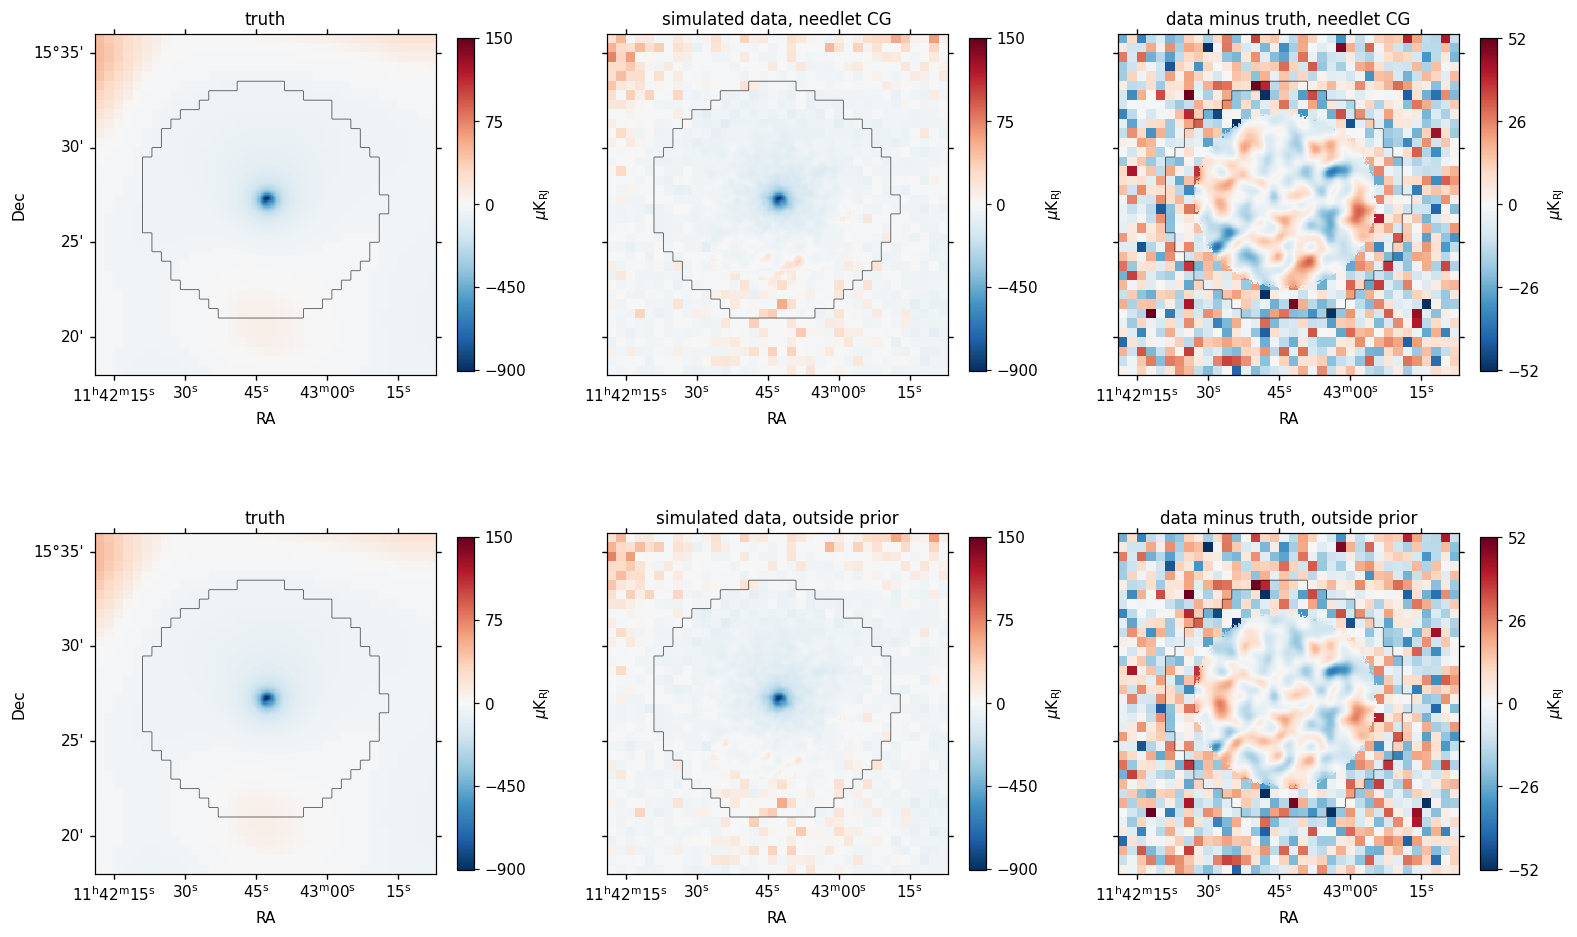
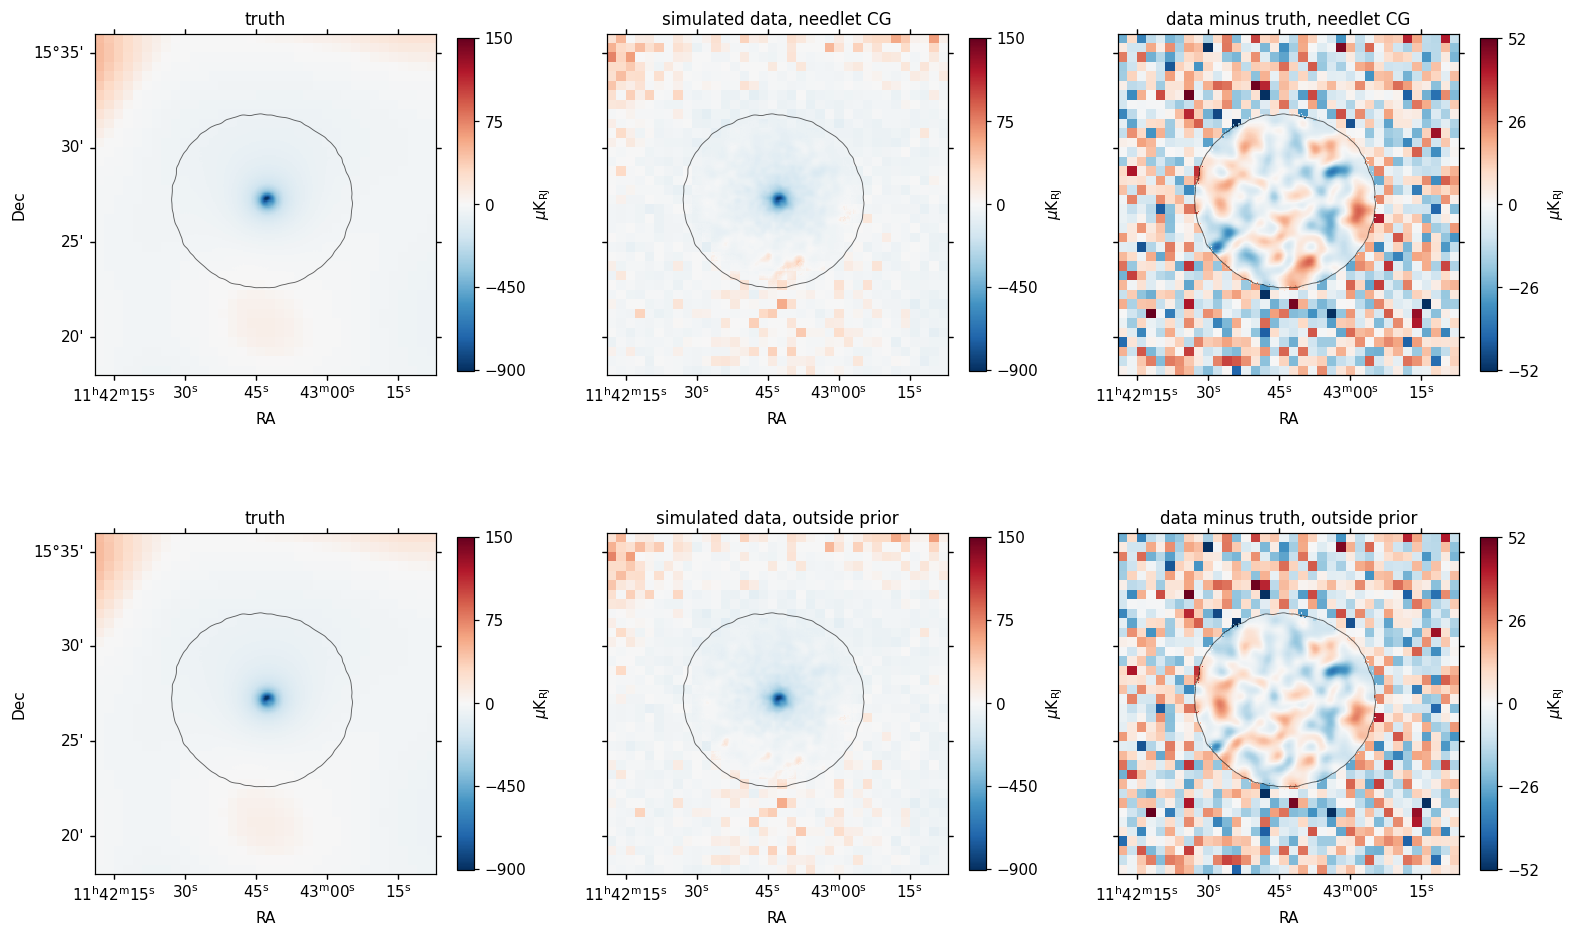
feat: multiscale outline marks where the joint map is shown (hits >= --show-hits), not the split ACT pixels

diff --git a/reports/convergence_summary.html b/reports/convergence_summary.html
@@ -362,7 +362,7 @@ a:focus-visible { outline: 2px solid var(--accent); outline-offset: 2px; }
 </div>
 <figure>
 <img src="figs/summary/best_sim_multiscale.png" alt="Simulation with no mask: truth, simulated data and residual as two-resolution maps">
-<figcaption><strong>Figure 8. Best configuration on the simulation: no mask, no prior, 600 iterations.</strong> 18′ field. 30″ ACT pixels, split into 8 × 8 sub-pixels (3.75″) where M2 has data (hits ≥ 20). The thin stair-step line outlines the split pixels. The M2 part is smoothed to 10″ above 3000 hits and up to 30″ below, shown above 120 hits and feathered into ACT over 300. The positive end of the colour scale is fixed at +150 µK, about the real map's CMB range, because this simulated patch has little CMB. Truth: the simulated sky, and in the ACT pixels the sky as a noiseless ACT sees it (ACT beam, pixel average). Data: the joint map, and in the ACT pixels a simulated ACT map with noise from the real ACT inverse variance. The residual's M2 part is smoothed to 30″. Its rms is 9.9 µK in the M2 part and 17.5 µK in the ACT pixels, which is ACT noise.</figcaption>
+<figcaption><strong>Figure 8. Best configuration on the simulation: no mask, no prior, 600 iterations.</strong> 18′ field. 30″ ACT pixels, split into 8 × 8 sub-pixels (3.75″) where M2 has data (hits ≥ 20). The thin line marks where the joint map starts to show (hits ≥ 120); outside it, the ACT values are shown. The M2 part is smoothed to 10″ above 3000 hits and up to 30″ below, shown above 120 hits and feathered into ACT over 300. The positive end of the colour scale is fixed at +150 µK, about the real map's CMB range, because this simulated patch has little CMB. Truth: the simulated sky, and in the ACT pixels the sky as a noiseless ACT sees it (ACT beam, pixel average). Data: the joint map, and in the ACT pixels a simulated ACT map with noise from the real ACT inverse variance. The residual's M2 part is smoothed to 30″. Its rms is 9.9 µK in the M2 part and 17.5 µK in the ACT pixels, which is ACT noise.</figcaption>
 </figure>
 <figure>
 <img src="figs/summary/sim_multiscale.png" alt="Simulation: masked needlet solve and masked solve with the outside prior, truth, data and residual">
@@ -370,7 +370,7 @@ a:focus-visible { outline: 2px solid var(--accent); outline-offset: 2px; }
 </figure>
 <figure>
 <img src="figs/summary/multiscale.png" alt="Real data: MOOJ1142 M2 plus ACT two-resolution map from the masked solve">
-<figcaption><strong>Figure 10. Real data, 40 TODs, masked solve (600 iterations, K<sub>RJ</sub>).</strong> Same display as Figure 8, with the colour scale set by the map itself. The ACT map is the coadd of the 8 DR6 f090 splits, and the thin stair-step line outlines the ACT pixels split into M2 sub-pixels. The joint map's offset from ACT inside the M2 region (−10 µK) is subtracted. This is a placeholder from the earlier masked run. The same map with no mask is queued, first for 40 TODs and then for all TODs, and will replace it here.</figcaption>
+<figcaption><strong>Figure 10. Real data, 40 TODs, masked solve (600 iterations, K<sub>RJ</sub>).</strong> Same display as Figure 8, with the colour scale set by the map itself. The ACT map is the coadd of the 8 DR6 f090 splits, and the thin line marks where the joint map starts to show (hits ≥ 120). The joint map's offset from ACT inside the M2 region (−10 µK) is subtracted. This is a placeholder from the earlier masked run. The same map with no mask is queued, first for 40 TODs and then for all TODs, and will replace it here.</figcaption>
 </figure>
 </section>
 </div>

diff --git a/reports/needlet_mapmaking.html b/reports/needlet_mapmaking.html
@@ -291,11 +291,11 @@ out 9 [ G₉₀   G₉₁   G₉₂  …   G₉₉ ]</div>
 </ul>
 <figure>
   <img src="figs/summary/best_sim_multiscale.png" alt="Simulation, best configuration: truth, simulated data and residual as two-resolution maps">
-  <figcaption><strong>Best configuration on the simulation: no mask, no prior, 600 iterations.</strong> Display maps for viewing only, 18′ field: 30″ ACT pixels, split into 8 × 8 sub-pixels (3.75″) where M2 has data (hits ≥ 20). The thin stair-step line outlines the split pixels. A sub-pixel shows the joint map where it has at least 120 hits, feathered into ACT over the next 300 hits. Below 120 hits it shows its ACT pixel's value, since at those fine scales ACT carries no information and the map there would be pure low-hit M2 noise. The joint map is smoothed to 10″ where it has at least 3000 hits, and more where it has fewer: FWHM 10″ × √(3000 / hits), up to 30″. That keeps the displayed M2 noise about constant. The residual's M2 part is smoothed to 30″: 10 µK rms there, against 18 µK of ACT noise in the ACT pixels.</figcaption>
+  <figcaption><strong>Best configuration on the simulation: no mask, no prior, 600 iterations.</strong> Display maps for viewing only, 18′ field: 30″ ACT pixels, split into 8 × 8 sub-pixels (3.75″) where M2 has data (hits ≥ 20). The thin line marks where the joint map starts to show (hits ≥ 120); outside it, the ACT values are shown. A sub-pixel shows the joint map where it has at least 120 hits, feathered into ACT over the next 300 hits. Below 120 hits it shows its ACT pixel's value, since at those fine scales ACT carries no information and the map there would be pure low-hit M2 noise. The joint map is smoothed to 10″ where it has at least 3000 hits, and more where it has fewer: FWHM 10″ × √(3000 / hits), up to 30″. That keeps the displayed M2 noise about constant. The residual's M2 part is smoothed to 30″: 10 µK rms there, against 18 µK of ACT noise in the ACT pixels.</figcaption>
 </figure>
 <figure>
   <img src="figs/summary/multiscale.png" alt="Real data: MOOJ1142 M2 plus ACT two-resolution map, masked solve">
-  <figcaption><strong>Real data, 40 TODs, K<sub>RJ</sub> units, 600 iterations, still with the mask.</strong> 18′ field, same display as above. The thin stair-step line outlines the ACT pixels split into M2 sub-pixels. The ACT map is the coadd of the 8 DR6 f090 splits, and the joint map's offset from ACT in the M2 region (−10 µK) is subtracted. Runs without the mask are queued, for 40 TODs and then for all TODs, and will replace this map.</figcaption>
+  <figcaption><strong>Real data, 40 TODs, K<sub>RJ</sub> units, 600 iterations, still with the mask.</strong> 18′ field, same display as above. The thin line marks where the joint map starts to show (hits ≥ 120). The ACT map is the coadd of the 8 DR6 f090 splits, and the joint map's offset from ACT in the M2 region (−10 µK) is subtracted. Runs without the mask are queued, for 40 TODs and then for all TODs, and will replace this map.</figcaption>
 </figure>
 
 <h2>Open questions</h2>

diff --git a/examples/multiscale_map.py b/examples/multiscale_map.py
@@ -371,7 +371,7 @@ def ticks(norm: Normalize) -> np.ndarray:
 def draw(
     ax,
     image: np.ndarray,
-    split: np.ndarray,
+    shown: np.ndarray,
     norm: Normalize,
     cmap: str,
     outline: bool,
@@ -384,14 +384,16 @@ def draw(
     ----------
     ax : WCSAxes
         Axes with the fine-grid projection.
-    image, split : np.ndarray
-        Output of compose.
+    image : np.ndarray
+        Display map (compose).
+    shown : np.ndarray
+        Sub-pixels showing the joint map (the m2 output of compose), outlined with outline.
     norm : Normalize
         Colour normalisation in uK.
     cmap : str
         Colour map.
     outline : bool
-        Outline the split ACT pixels.
+        Outline where the joint map is shown, lightly smoothed so it follows the hits rather than single pixels.
     grid : bool, default: False
         Draw the RA/Dec coordinate grid.
 
@@ -404,7 +406,8 @@ def draw(
         image * 1e6, origin="lower", cmap=cmap, norm=norm, interpolation="nearest"
     )
     if outline:
-        ax.contour(split.astype(float), [0.5], colors="k", linewidths=0.6, alpha=0.6)
+        edge = gaussian_filter(shown.astype(float), 2.0)
+        ax.contour(edge, [0.5], colors="k", linewidths=0.6, alpha=0.6)
     ax.set_xlabel("RA")
     ax.set_ylabel("Dec")
     if grid:
@@ -427,9 +430,7 @@ def plot(args, image, split, m2, wcs):
     """
     fig = plt.figure(figsize=(8, 7))
     ax = fig.add_subplot(projection=wcs)
-    im = draw(
-        ax, image, split, make_norm(image, args), args.cmap, args.outline, args.grid
-    )
+    im = draw(ax, image, m2, make_norm(image, args), args.cmap, args.outline, args.grid)
     fig.colorbar(
         im, ax=ax, label=r"$\mu$K$_{\rm RJ}$", shrink=0.85, ticks=ticks(im.norm)
     )
@@ -550,7 +551,9 @@ if __name__ == "__main__":
         help="twoslope: separate linear scales below and above 0; linear: symmetric about 0",
     )
     parser.add_argument(
-        "--outline", action="store_true", help="Outline the split ACT pixels"
+        "--outline",
+        action="store_true",
+        help="Outline where the joint map is shown (hits >= --show-hits)",
     )
     parser.add_argument("--grid", action="store_true", help="Draw the RA/Dec grid")
     parser.add_argument("--title", default="MOOJ1142, M2 + ACT")

diff --git a/examples/sim_multiscale.py b/examples/sim_multiscale.py
@@ -112,7 +112,7 @@ def main(args: argparse.Namespace):
             f"{label}: residual rms {res[m2].std() * 1e6:.1f} uK where M2 shows, "
             f"{res[~split].std() * 1e6:.1f} uK in the ACT pixels"
         )
-        rows.append((label, truth, data, res, split))
+        rows.append((label, truth, data, res, m2))
 
     # one scale for truth and data, from both, so that the noise in the data stays inside it
     norm = make_norm(np.concatenate([np.concatenate([r[1], r[2]]) for r in rows]), args)
@@ -123,7 +123,7 @@ def main(args: argparse.Namespace):
     )
     rnorm = Normalize(-rlim, rlim)
     fig = plt.figure(figsize=(17, 5.4 * len(rows)))
-    for k, (label, truth, data, res, split) in enumerate(rows):
+    for k, (label, truth, data, res, m2) in enumerate(rows):
         for j, (img, nm, title) in enumerate(
             (
                 (truth, norm, "truth"),
@@ -136,7 +136,7 @@ def main(args: argparse.Namespace):
             )
         ):
             ax = fig.add_subplot(len(rows), 3, 3 * k + j + 1, projection=wcs)
-            im = draw(ax, img, split, nm, args.cmap, args.outline, args.grid)
+            im = draw(ax, img, m2, nm, args.cmap, args.outline, args.grid)
             ax.set_title(title, fontsize=11)
             if j > 0:
                 ax.coords[1].set_ticklabel_visible(False)
